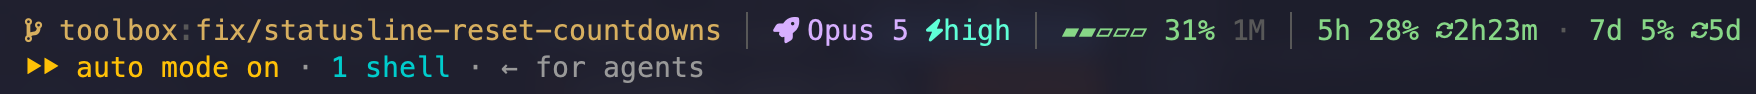
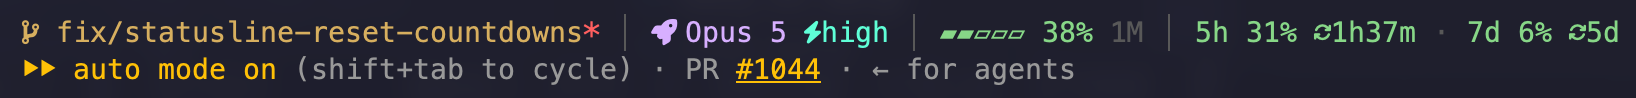
fix(image): drop what another surface already shows, and unblank the prompt glyph
Three segments left the statusline because something else on screen was already
saying the same thing at the same moment — which is what separates a duplicate
from a second opinion.

Claude Code prints the open PR and the permission mode on its own hint line,
one row below the statusline and inside the same TUI, so `pr.*` and
`permission_mode` were being rendered twice a row apart. herdr labels its
workspace with the repository name, in the sidebar, so `repo:` in front of the
branch was the third.

The branch stays, and the same test is what keeps it: starship prints it only
in the prompt, which has scrolled out of view by the time an agent has been
working for a while and goes stale the moment that agent switches branch
itself. herdr gives every worktree workspace of one repository the same label,
so its sidebar cannot tell them apart either. The branch is the one piece of
git state with no other live surface.

The smoke test now feeds a fixture that carries a PR and a non-default
permission mode, and asserts neither reaches the output — an absence that is
actually exercised rather than assumed.

Separately: `starship.toml` had lost a glyph to the same failure that emptied
the statusline icons. `git_branch` shipped as a bare space, while the four
supplementary-plane symbols came through intact — consistent with a tool that
drops Basic Multilingual Plane PUA and leaves plane 15 alone, which is exactly
[…]

diff --git a/docs/internals/shell-start.md b/docs/internals/shell-start.md
@@ -6,6 +6,8 @@ Maintainer notes on what happens between `toolbox shell` attaching and the zsh p
 
 Every symbol in `internal/build/assets/starship.toml` must be ASCII, unambiguous-narrow Unicode, or a Nerd Font PUA glyph — never an East Asian Ambiguous character or an emoji-presentation sequence (U+FE0F). Starship's *defaults* violate this: kubernetes ships `☸ ` (U+2638, EA-Ambiguous) and gcloud ships `☁ ` (U+2601+FE0F). Ghostty measures them with Unicode grapheme-cluster width (mode 2027) → 2 columns, while zsh ZLE lays out the line with libc `wcwidth()` → 1 column. One column of drift per glyph meant every Backspace left exactly as many ghost characters as ambiguous emoji visible in the prompt — a months-long "intermittent" bug, because the k8s/gcloud modules only render where those contexts are active. Three earlier fixes (autosuggestions rebind, TERM forwarding, terminfo bundling) chased adjacent symptoms; the real confirmation was `PROMPT='> '` killing the residue while plugin/RPROMPT/highlighter toggles did nothing. **Diagnostic heuristic: any "ghost characters on redraw" report → test `PROMPT='> '` first, before suspecting ZLE plugins.** The four module symbols (`kubernetes`, `gcloud`, `terraform`, `docker_context`) are pinned to PUA glyphs with codepoint comments in `starship.toml`; PUA is width-1 under both width systems by construction, and Nerd Font on the host is already a README prerequisite.
 
+Those symbols are written as TOML `\u` / `\U` escapes rather than literal characters, and the reason is a second failure that hit this same file. PUA characters do not survive every tool that edits an asset: `git_branch` reached a shipped image as a bare space, while the four supplementary-plane symbols came through intact — consistent with a tool that drops the Basic Multilingual Plane PUA and leaves plane 15 alone, which is exactly the range that was emptied in `statusline-command.sh`. A blanked symbol changes nothing a parser can object to, so the smoke test reads the baked `starship.toml` and asserts each symbol still holds a non-ASCII character. The statusline solves the same problem with explicit UTF-8 bytes instead, because bash has a locale hazard TOML does not: see [managed statusline](#managed-statusline).
+
 ## Prompt module toggles
 
 The `kubernetes` and `gcloud` starship segments are opt-out via `env:` in `.toolbox.yaml`: set `PROMPT_HIDE_KUBE` (or `PROMPT_HIDE_GCLOUD`) to any value and the segment disappears; unset, it renders as before. `toolbox stop` first — `env:` is applied at ContainerCreate. Implemented with `detect_env_vars = ["!VAR"]`, a *veto* rather than a trigger: starship's display test is `is_project.or(has_env_vars).unwrap_or(true)`, and a `!`-prefixed var flips `has_env_vars` to false when the var is set. This only works for modules with **no** `detect_files/folders/extensions` — the two we toggle read a config file, not the working directory. `terraform` and `docker_context` are directory-scoped: their scan match makes `is_project` `Some(true)`, which short-circuits `.or(has_env_vars)`, so an env veto never reaches them. They're already silent outside their project dirs; to drop them entirely, edit `format` in `starship.toml` or ship a per-user `STARSHIP_CONFIG`.
@@ -34,7 +36,11 @@ The smoke test writes a snippet that defines the function **before** it unaliase
 
 The image ships a curated Claude Code statusline at `/etc/toolbox/statusline-command.sh` (baked like `starship.toml`, never copied into the `~/.claude` bind-mount). `init.d/35-statusline.sh` runs on every shell start and force-sets `~/.claude/settings.json` `statusLine` to `bash '/etc/toolbox/statusline-command.sh'` via `jq`, rewriting only that key and leaving the rest of the user's settings intact. The same object carries a `refreshInterval` and `hideVimModeIndicator: true`; the interval is pinned in `35-statusline.sh` next to the reasoning for it. The refresh exists for the **rate-limit countdowns**, the only thing left on the line that moves on its own: ticks are event-driven and go quiet while the session idles, and `resets_at` is an absolute epoch rendered as the time remaining, so the text goes stale with nothing to redraw it. That countdown is never finer than a minute, which is what sets the interval — anything shorter re-renders for no added accuracy. `hideVimModeIndicator` is set because the script renders `vim.mode` itself, so the built-in `-- INSERT --` line would be a duplicate. It shares the `~/.toolbox-state/.claude-settings.lock` flock with `10-rtk.sh` / `65-atuin.sh` (entrypoint runs init.d scripts in parallel; all three write the same file) and replaces the file atomically (`mktemp`+`mv`), seeding `{}` if settings.json is absent and never truncating a valid file on `jq` failure. Because the script is image-owned and re-applied every boot, a local edit does not persist — the statusline changes only when the image does, i.e. via a repo PR. This is why it lives baked + enforced rather than as a one-time seed.
 
-Opt-out: `managed_statusline: false` in `.toolbox.yaml` makes the host emit the curated `TOOLBOX_MANAGED_STATUSLINE=0` env (`sessionplan.managedStatuslineEnv`); the boot hook sees it and exits before touching settings.json, so the user keeps their own `statusLine`. The script resolves its own paths against `${CLAUDE_CONFIG_DIR:-$HOME/.claude}` so it runs in any environment, and degrades silently when optional inputs are missing. Most of the stdin JSON is conditional, and every conditional field is rendered as its own segment that simply does not appear: `pr.*` (only while an open PR exists for the branch; `pr.review_state` may be absent even when `pr` is present, which falls through to the neutral colour), `agent.name` (only under `--agent`), `effort.level` (only on models supporting it — falls back to `effortLevel` from settings.json), `vim.mode`, `rate_limits.*` (Pro/Max only, each window independently absent, and dropped by Claude Code once its `resets_at` passes — which is also why the countdown never has to render a deadline already gone), `prompt_cache.*` (absent until the first API response; the cold-cache glyph reads `warm` and `caching_observed` through `tostring` alone, never jq's `//`, which treats `false` as empty and would collapse the one value being tested), `context_window.context_window_size` (names the window beside the bar only when it is not the ordinary one), and `context_window.used_percentage` (null early in a session and again after `/compact`). Two fields are preferred-but-not-trusted rather than merely optional, because a missing value would silently drop information the script can still recover: `workspace.repo.name` (absent without an `origin` remote) falls back to `basename $(git rev-parse --show-toplevel)`, and `workspace.git_worktree` falls back to matching `git rev-parse --absolute-git-dir` against `*/worktrees/*`, which can report presence but not the worktree's name. The ponytail/caveman mode badges appear only if those plugins are installed (glob no-match → no badge), and the Nerd Font glyphs render as tofu without a Nerd Font on the host. Those glyphs are written as explicit UTF-8 bytes (`$'\xef\x80\xa1'`), which is neither of the two readable alternatives, for a reason each. Written as literal characters they live in the Private Use Area, and a tool that could not encode them once blanked every assignment in place. Written as `\uXXXX` escapes bash converts them through `LC_CTYPE` and emits the escape as text under a C locale — unfixable from inside the script, because `LC_ALL` outranks anything it exports, and `LANG` is overridable by a user `env:` passthrough. Both failures leave the script parsing cleanly, which is why the smoke test renders it and asserts the output, once normally and once under `LC_ALL=C`.
+Opt-out: `managed_statusline: false` in `.toolbox.yaml` makes the host emit the curated `TOOLBOX_MANAGED_STATUSLINE=0` env (`sessionplan.managedStatuslineEnv`); the boot hook sees it and exits before touching settings.json, so the user keeps their own `statusLine`. The script resolves its own paths against `${CLAUDE_CONFIG_DIR:-$HOME/.claude}` so it runs in any environment, and degrades silently when optional inputs are missing. Most of the stdin JSON is conditional, and every conditional field is rendered as its own segment that simply does not appear: `agent.name` (only under `--agent`), `effort.level` (only on models supporting it — falls back to `effortLevel` from settings.json), `vim.mode`, `rate_limits.*` (Pro/Max only, each window independently absent, and dropped by Claude Code once its `resets_at` passes — which is also why the countdown never has to render a deadline already gone), `prompt_cache.*` (absent until the first API response; the cold-cache glyph reads `warm` and `caching_observed` through `tostring` alone, never jq's `//`, which treats `false` as empty and would collapse the one value being tested), `context_window.context_window_size` (names the window beside the bar only when it is not the ordinary one), and `context_window.used_percentage` (null early in a session and again after `/compact`). One field is preferred-but-not-trusted rather than merely optional, because a missing value would silently drop information the script can still recover: `workspace.git_worktree` falls back to matching `git rev-parse --absolute-git-dir` against `*/worktrees/*`, which can report presence but not the worktree's name. The ponytail/caveman mode badges appear only if those plugins are installed (glob no-match → no badge), and the Nerd Font glyphs render as tofu without a Nerd Font on the host. Those glyphs are written as explicit UTF-8 bytes (`$'\xef\x80\xa1'`), which is neither of the two readable alternatives, for a reason each. Written as literal characters they live in the Private Use Area, and a tool that could not encode them once blanked every assignment in place. Written as `\uXXXX` escapes bash converts them through `LC_CTYPE` and emits the escape as text under a C locale — unfixable from inside the script, because `LC_ALL` outranks anything it exports, and `LANG` is overridable by a user `env:` passthrough. Both failures leave the script parsing cleanly, which is why the smoke test renders it and asserts the output, once normally and once under `LC_ALL=C`.
+
+Four fields the JSON offers are deliberately not rendered, and the test for each was whether another surface shows it **at the same moment**. `pr.*` and `permission_mode`: Claude Code prints both on the hint line one row below, inside the same TUI. `workspace.repo.name`: herdr labels its workspace with the repository name, in the sidebar. `cwd`: starship prints it with the same truncation.
+
+The branch is the deliberate exception, and the reasoning is the same test applied honestly. starship prints it, but only in the prompt, which is not simultaneous: it scrolls out of view during a session and goes stale the moment an agent switches branch itself. herdr gives every worktree workspace of one repository the same label, so the sidebar does not separate them either. The branch is therefore the one piece of git state with no other live surface. The smoke test feeds a fixture carrying a PR and a non-default permission mode and asserts neither reaches the output.
 
 `init.d/36-mode-flags.sh` keeps the badges honest. ponytail/caveman draw their `[PONYTAIL]`/`[CAVEMAN]` badge from a `~/.claude/.<mode>-active` flag written by the plugin's own SessionStart hook — but a *disabled* plugin's hook never runs, so a flag left from a previous session goes stale and the badge shows for an inactive mode. This hook runs before `claude` starts and removes the flag for any mode whose `enabledPlugins["<plugin>"]` is not `true`; enabled plugins are left alone (their hook rewrites the flag with the live level on start, so both badges show when both are enabled). On an unreadable settings.json it defaults to "enabled" and deletes nothing — it only removes a flag on a definite `false`.
 

diff --git a/.claude/rules/image-build.md b/.claude/rules/image-build.md
@@ -103,7 +103,7 @@ Both Dockerfile write paths run under `set -eux`, so a broken generator fails th
 - **UTF-8 locale baked**: `ENV LANG=C.UTF-8` in the final stage — debian-slim defaults to POSIX, under which ZLE renders UTF-8 bytes as `<ffffffff>` (autosuggestion ghost text from history). `LANG` only, never `LC_ALL` (it would outrank the user's `env:` passthrough); no `locales` package needed (`C.utf8` is glibc built-in). Smoke test asserts `locale charmap`. → [utf-8-locale](../../docs/internals/shell-start.md#utf-8-locale)
 - **User config sourced from `zshrc.d`**: `zshrc.sh` sources `~/.toolbox-state/zshrc.d/*.zsh` last (after OMZ and the alias block) with **alias expansion off** — zsh expands aliases at parse time, so a snippet defining a function named like a shipped alias (`h`, `g`, `d`, `k`, `l`, `tf`, …) is a parse error that discards the rest of that file. `~/.zshrc` is not an alternative: the Dockerfile truncates it on every rebuild. Smoke test (`_zsh_user_rc_check`) asserts the function survives the alias, and its snippet must define the function *before* unaliasing or the assertion degrades to "file was sourced". → [user-config](../../docs/internals/shell-start.md#user-config-in-zshrcd)
 - **rtk hook auto-wiring + privacy lockdown**: `RTK_TELEMETRY_DISABLED=1`, `RTK_TEE=0` load-bearing. → [rtk-hooks](../../docs/internals/privacy.md#rtk-hook-auto-wiring--telemetrytee-lockdown)
-- **Statusline glyphs are explicit UTF-8 bytes** (`$'\xef\x80\xa1'`), in `statusline-command.sh` and in the patterns `smoke-test.sh` matches them with. Both obvious alternatives are broken: a literal glyph is emptied in place by any tool that cannot encode the Private Use Area — which happened, to all of them, silently — and a `\uXXXX` escape is converted through `LC_CTYPE`, so a C locale renders it as text and no `export` inside the script can fix that, because `LC_ALL` outranks it. Held by the render assertions in the `managed statusline` block of `smoke-test.sh`, one of which re-runs under `LC_ALL=C`; `bash -n` sees neither failure, and a literal glyph in a pattern is blanked in step with the bug it guards, passing vacuously. → [managed-statusline](../../docs/internals/shell-start.md#managed-statusline)
+- **Never write a glyph as a literal character in an image asset**: a tool that cannot encode the Basic Multilingual Plane PUA empties it in place, leaving valid syntax and no glyph — which has already shipped twice, as every icon in `statusline-command.sh` and as `git_branch` in `starship.toml`. Each file escapes them the way its own format allows and its own hazards require: `statusline-command.sh` uses explicit UTF-8 bytes (`$'\xef\x80\xa1'`), because a bash `\uXXXX` escape is converted through `LC_CTYPE` and renders as text under a C locale, which no `export` inside the script can fix since `LC_ALL` outranks it; `starship.toml` uses TOML `\u` / `\U`, decoded by the parser with no locale involved. Held by the `managed statusline` and `baked starship symbols` blocks of `smoke-test.sh` — one renders the script and re-runs it under `LC_ALL=C`, the other reads the parsed TOML. `bash -n` and a TOML parse both stay green through either failure, and a literal glyph in an assertion is blanked in step with the bug it guards. → [managed-statusline](../../docs/internals/shell-start.md#managed-statusline)
 - **DO_NOT_TRACK image-wide, claude exempt via wrapper**: `/usr/local/bin/claude` is a generated `env -u DO_NOT_TRACK` shim, not the npm symlink — the var kills claude's Statsig feature flags (Remote Control, `/doctor` ✗). Don't revert to a symlink; smoke test asserts the shim. → [do-not-track](../../docs/internals/image-build.md#do_not_track--claude-wrapper)
 - **Skill discovery paths diverge**: Claude reads `~/.claude/skills/`, every other bundled agent (Codex, pi) reads the cross-agent `~/.agents/skills/` — wrappers shipping a SKILL.md need dual-install, two roots whatever the agent count. Two sites: `init.d/60-glab.sh` (delegates to `glab skills install`) and `init.d/61-herdr.sh` (writes the file itself from `herdr --skill`, one `~/.agents` pass gated on Codex **or** pi). Roots come from `CLAUDE_CONFIG_DIR`/`CODEX_HOME` with the `~` fallback, never a bare `$HOME` path — the Dockerfile sets both and the tools honour them. **`~/.agents` is container-local**, not a bind like `~/.claude`: `mkdir -p` it, never gate on it, or the cross-agent half silently races whichever script happens to create it first (init.d runs backgrounded in parallel). Held by `TestHerdrInitInstallsBothSkillPaths` + `TestHerdrInitWiresPi`. → [skill-paths](../../docs/internals/shell-start.md#skill-discovery-paths-diverge-between-claude-and-the-other-agents)
 - **A bundled agent is not a wired agent**: a catalog row plus the Dockerfile install layer put the binary on `PATH`; the `init.d` layer is what makes rtk, atuin and herdr *see* it (`10-rtk.sh`, `65-atuin.sh`, `61-herdr.sh` — one block per agent each). Add an agent to the catalog without those blocks and it ships as a first-class `--agent` target with none of the wiring. pi's gate across all three is the `~/.pi` bind mount, never `~/.pi/agent` (pi creates that itself on first run, mounted or not), and 61-herdr.sh must `mkdir -p` it before installing — herdr refuses a `~/.pi` pi has never populated. None of the three takes a lock: each writes its own file under `~/.pi/agent/extensions/`. Held by `TestHerdrInitWiresPi` + `TestInitDWiresPiEverywhereItWiresCodex`. Meaning and why: [Agent Wiring](../../CONTEXT.md#agent-wiring). → [skill-paths](../../docs/internals/shell-start.md#skill-discovery-paths-diverge-between-claude-and-the-other-agents)

diff --git a/docs/configuration.md b/docs/configuration.md
@@ -64,12 +64,16 @@ The runtime image ships a curated Claude Code statusline and applies it to every
 Every segment is conditional — the line shows only what applies right now, and an empty one takes no room:
 
 ```
- toolbox:main*  feat-xyz │  #1234 │  Opus 5 high FAST │  ACCEPT │ @reviewer │ vim:NORMAL │ ▰▱▱▱▱ 22% 1M │ ❄ │ 5h 24% 2h30m · 7d 41% 2d
+ main*  feat-xyz │  Opus 5 high FAST │ @reviewer │ vim:NORMAL │ ▰▱▱▱▱ 22% 1M │ ❄ │ 5h 24% 2h30m · 7d 41% 2d
 ```
 
-Left to right: `repo:branch` with dirty/ahead/behind markers and the linked-worktree name, the open PR for the branch (clickable, coloured by review state), model with reasoning effort and fast mode, permission-mode badge, custom agent, vim mode, output style, behavioural-mode badge, context-window bar (named when the window is not the ordinary one), a snowflake while the prompt cache is cold, and rate-limit usage per window with the time left before each resets.
+Left to right: the branch with dirty/ahead/behind markers and the linked-worktree name, model with reasoning effort and fast mode, custom agent, vim mode, output style, behavioural-mode badge, context-window bar (named when the window is not the ordinary one), a snowflake while the prompt cache is cold, and rate-limit usage per window with the time left before each resets.
 
-The working directory is deliberately absent: starship already prints it, with the same truncation, on the line above. Reset deadlines are countdowns rather than clock times — a bare `01:59` says nothing about which day it falls on, and the five-hour window crosses midnight routinely.
+Four things are absent on purpose, each because another surface already shows it **at the same moment**, which is what separates a duplicate from a second opinion. The open PR and the permission mode: Claude Code prints both on its own hint line, one row below. The repository name: herdr labels its workspace with it, in the sidebar. The working directory: starship prints it with the same truncation.
+
+The branch stays, and the distinction is worth the words. starship prints it too, but only in the prompt — which has scrolled out of view by the time an agent has been working for a while, and which goes stale the moment that agent switches branch under you. herdr labels every worktree workspace of one repository identically, so its sidebar cannot tell them apart either.
+
+Reset deadlines are countdowns rather than clock times — a bare `01:59` says nothing about which day it falls on, and the five-hour window crosses midnight routinely.
 
 ![The managed statusline rendered in a toolbox shell, in colour with Nerd Font glyphs.](img/statusline.png)
 
